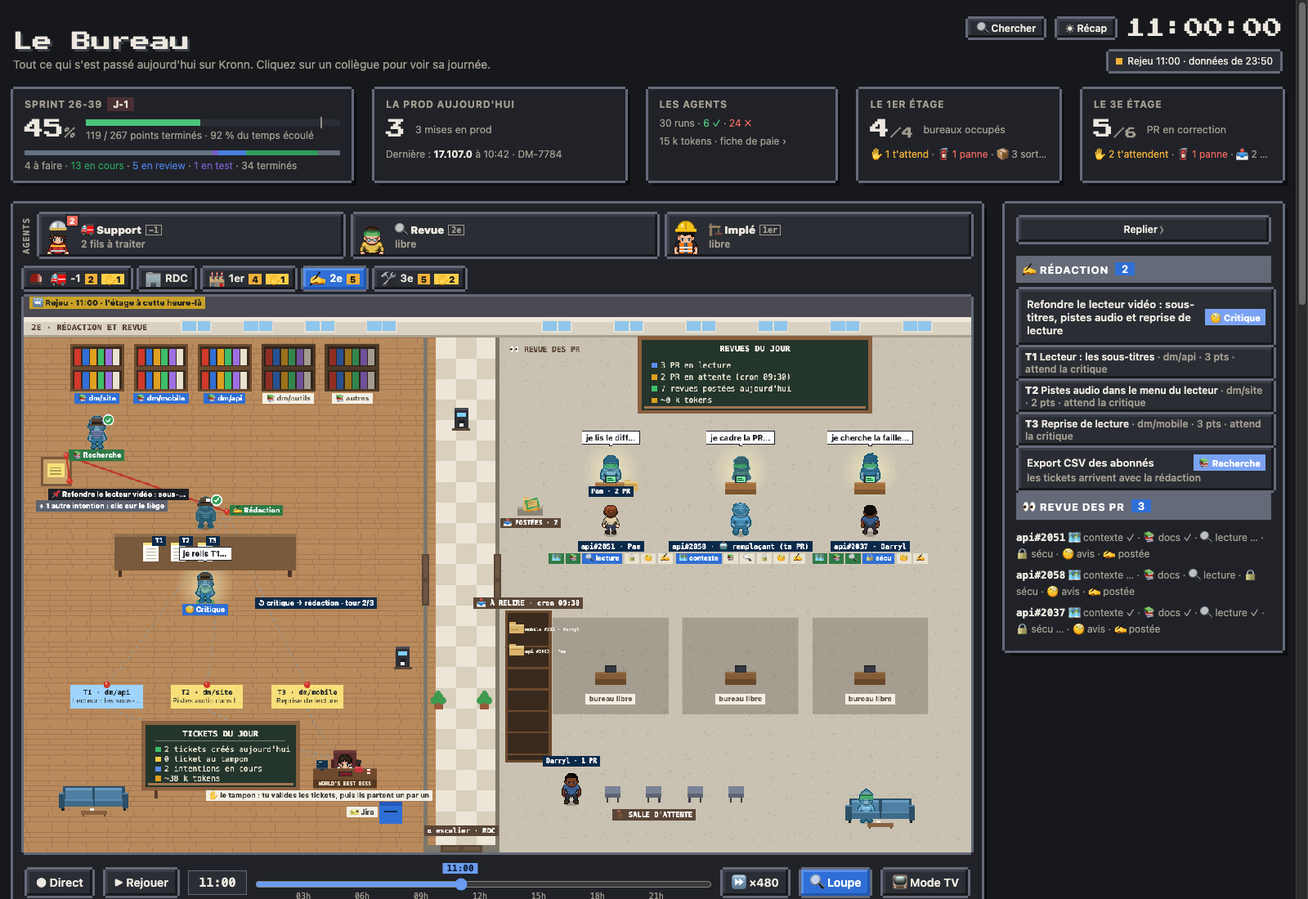
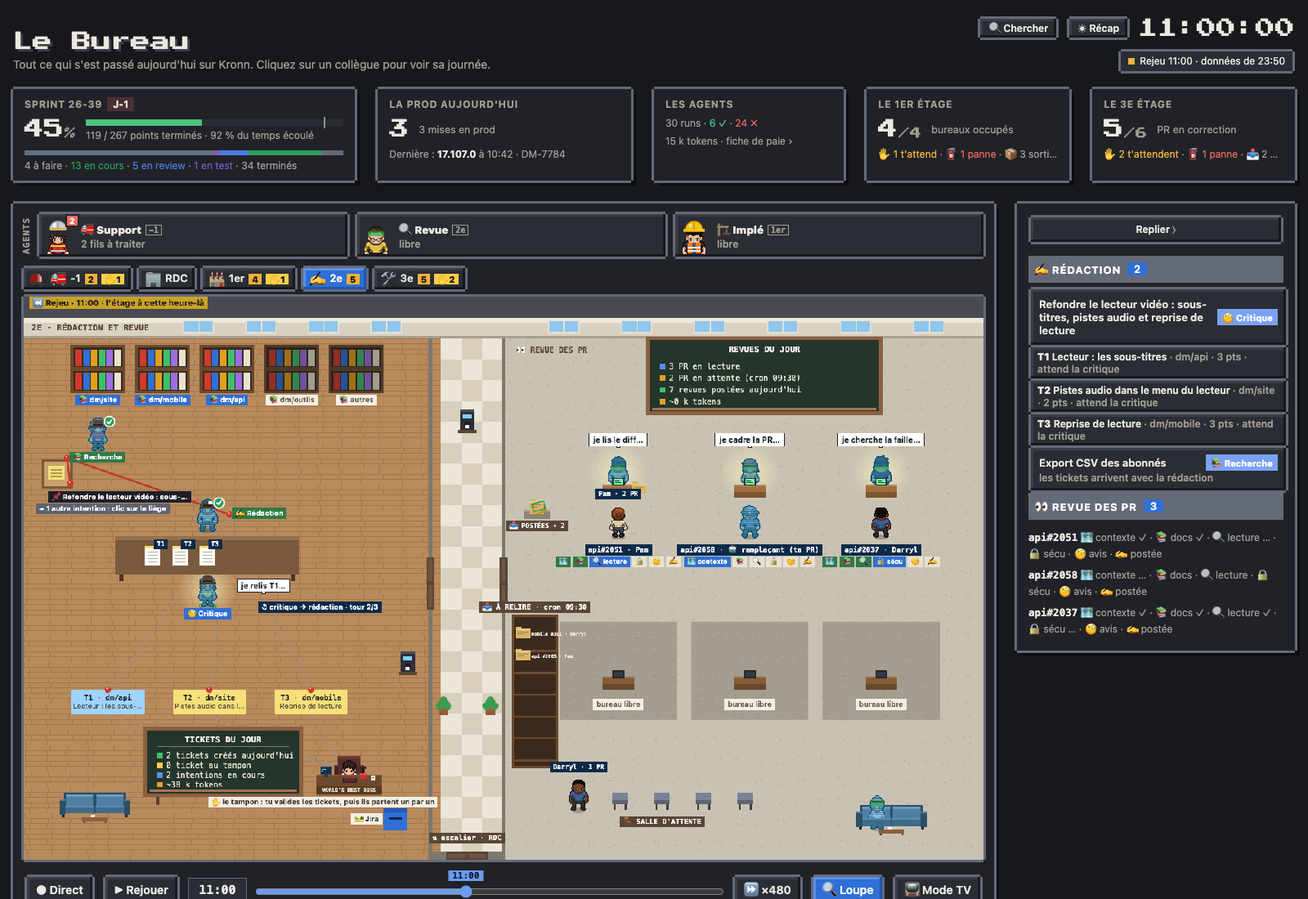
fix(etages): les scènes de la galerie jouent ce qu'elles promettent, avec leur loupe
Rejeu des 31 scènes des étages en Chrome (un clic sur « ▶ voir », état de la
loupe et du boss à chaque instant). Corrigé :

- la loupe s'ouvre aux étages après une pause ou un glissé du curseur :
  loupeNoteSeen() note vu l'étage d'avant la scène (LOUPE.seen était vide,
  l'événement de la scène passait pour déjà vu) ;
- le boss va à la barrière : au 1er et au -1, les autres gates sont levées
  et il part de son fauteuil ; au 3e, rtDemo garde sa mémoire (il
  réapparaissait d'un coup) ; la loupe de l'escalade le montre là où il est ;
- la rédaction du 2e montre le changement : rdDemo dessine l'étage d'avant,
  le découpage part d'une intention sans tickets, le boss porte les tickets
  à la boîte Jira ;
- les scènes du 2e ont leur loupe : découpage, Jira, fournée, dossier pris,
  avis, auteur qui repart, revue à la demande ; la démo de la revue suit
  l'heure du plan (rvDemo filtré par _s <= T) ;
- textes cachés : la bulle du critique ne couvre plus les fiches T2 et T3,
  le banc du 3e ne cache plus le titre du bureau 4, la loupe des contrôles
  rouges n'est plus titrée « Bernard » ;
- le soir au 1er et au 3e, des bureaux libres pour voir ceux qui restent
  éclairés.

Tests : tests/scenes-etages.test.js (échouent sur l'ancien code).

diff --git a/page/src/68-redaction.js b/page/src/68-redaction.js
@@ -62,7 +62,7 @@ const rvPosteWf=w=>!!w&&(CFG.revue_postes_wf||[]).includes(String(w).slice(0,8))
 const rdPosteWf=w=>!!w&&((CFG.ticket&&CFG.ticket.postes_wf)||[]).includes(String(w).slice(0,8));
 function rvRuns(){
   const l=((DATA&&DATA.runs)||[]).filter(r=>rvWf(r.wf)&&r._s<=T);
-  if(!l.length&&DEMO||SCENE_DEMO&&SCENE_DEMO.revue)return rvDemo(); // une scène de la revue (galerie) se joue sur la journée de démo
+  if(!l.length&&DEMO||SCENE_DEMO&&SCENE_DEMO.revue)return rvDemo().filter(r=>r._s<=T); // une scène de la revue (galerie) se joue sur la journée de démo, à son heure
   return l.sort((a,b)=>a._s-b._s);
 }
 const RV_DEMO=['whoami','setup','fetch_files','write_ctx','contexte','docs','lecture','securite','avis','map_event','post'];
@@ -109,7 +109,7 @@ function rdLate(people,f,y){people.push([{pos:{x:0,y:y==null?1e6:y}},null,false,
 // devant lui), o.bubble, o.badge (✓ ou ! à côté de lui, comme au 1er ; o.pop : il apparaît en grossissant)
 function rdAgent(people,k,x,y,s,o,now){
   o=o||{};const a=atWorker(k,x,y,o.dir||'down',false,'',null);if(!a)return;a._st={st:s==='run'?'work':'idle'};a.pose=o.pose||'type';const hy=y+(a.pose==='type'?6:0);
-  const after=()=>{if(o.hat)rdHat(ctx,o.hat,x,hy,o.dir||'down');if(o.desk)atDesk(x,y-6,s==='run');if(o.front)o.front();if(o.badge)atBadge(x+18,y-42,o.badge,o.badgeCol||'#2f9e55',o.pop);if(o.bubble)atBubble(x,y-66,o.bubble);};
+  const after=()=>{if(o.hat)rdHat(ctx,o.hat,x,hy,o.dir||'down');if(o.desk)atDesk(x,y-6,s==='run');if(o.front)o.front();if(o.badge)atBadge(x+18,y-42,o.badge,o.badgeCol||'#2f9e55',o.pop);if(o.bubble)atBubble(x+(o.bx||0),y-66+(o.by||0),o.bubble);};
   if(s==='wait'){people.push([{pos:{x,y}},null,false,()=>{const g=atLayer();atDrawInto(g,a,now);if(o.hat)rdHat(g,o.hat,x,hy,o.dir||'down');ctx.save();ctx.globalAlpha=.38;ctx.filter='grayscale(1)';ctx.drawImage(AT_OFF,0,0);ctx.restore();if(o.desk)atDesk(x,y-6,false);}]);return;}
   if(s==='run'){const gl=ctx.createRadialGradient(x,y-24,4,x,y-24,46);gl.addColorStop(0,'rgba(255,246,190,.6)');gl.addColorStop(1,'rgba(255,246,190,0)');ctx.fillStyle=gl;ctx.fillRect(x-48,y-72,96,96);RD_LIT.push({x,y});}
   people.push([a,null,false,after]);
@@ -207,7 +207,7 @@ function rdRoom(now,people){
   const bub={recherche:p==='recherche'?'je fouille '+(t.composants||[]).length+' dépôt(s)…':null,redaction:p==='redaction'?(tks.length?'version '+(t.tour||1)+', je reprends…':'je rédige…'):null,critique:p==='critique'?'je relis T1…':null};
   const at={recherche:[rech,'up'],redaction:[red,'down'],critique:[cri,'up']};let zk=0;
   for(const k in at){const s=st(k), pop=lvPop(M,k,!!t&&s==='ok',now), [q,d]=at[k];
-    if(lvSeated(M,k)){rdAgent(people,RD_KS[k],q.x,q.y,!t?'idle':s==='wait'?'wait':s==='run'?'run':'idle',{dir:d,hat:'presse',bubble:bub[k],badge:t&&s==='ok'?'✓':null,pop},now);
+    if(lvSeated(M,k)){rdAgent(people,RD_KS[k],q.x,q.y,!t?'idle':s==='wait'?'wait':s==='run'?'run':'idle',{dir:d,hat:'presse',bubble:bub[k],...(k==='critique'?{bx:86,by:44}:{}),badge:t&&s==='ok'?'✓':null,pop},now);
       if(M.sleep){const j=zk++;rdLate(people,()=>lvZz(q.x,q.y,j,now),1e6);}}
     rdLate(people,()=>atPill(RD_LBL[k],plq[k].x,plq[k].y,s==='run'?'#2f6fd6':s==='ok'?'#2f7a45':'#f4efe4',s==='wait'||!t?'#3a3530':'#fff','bold 11px system-ui,sans-serif'),1e6);}
   // le bureau du boss, le tampon posé dessus : il y est, et tamponne les tickets un par un
@@ -368,7 +368,25 @@ function tvRedactionHtml(){
 // ---------- la loupe, le fil du RDC, ⌘K, la galerie ----------
 function rdLoupeEvents(){
   const out=[], t=rdTable(), boss=chars.find(c=>c.boss);
-  if(t&&(t.tickets||[]).some(x=>x.etat==='gate')){const p=atPt(RD_DESK.x,RD_DESK.y,boss?boss.name:'Le boss','','rd_gate');p._st={st:'rd_gate',label:'✋ Un ticket attend ton tampon'};out.push({id:'rd_gate:'+t.run,kind:'rd_gate',cs:[p,atPt(RD_JIRA.x,RD_JIRA.y,'','','rd_gate')]});}
+  const add=(kind,id,name,label,pts)=>{const cs=pts.map(([x,y],k)=>atPt(x,y,k?'':name,'',kind));cs.forEach(c=>{c._st={st:kind,label};});out.push({id:kind+':'+id,kind,cs});};
+  if(t&&(t.tickets||[]).some(x=>x.etat==='gate'))add('rd_gate',t.run,boss?boss.name:'Le boss','✋ Un ticket attend ton tampon',[[RD_DESK.x,RD_DESK.y],[RD_JIRA.x,RD_JIRA.y]]);
+  // la rédaction : l'intention découpée (ses brins et ses fiches apparaissent), le boss qui porte un ticket à la boîte Jira
+  const tks=(t&&t.tickets)||[];
+  if(tks.length){const G=rdGeo(t);add('rd_cut',t.run+':'+(t.tour||1)+':'+tks.length,'La rédaction','✂ L\'intention découpée en '+plural(tks.length,'ticket','tickets'),[[G.red.x,G.red.y],[G.tx,G.ty],[G.tx,19.6*RD_T]]);}
+  const J=RD_LV&&RD_LV.job;
+  if(J&&J.kind==='jira')add('rd_jira',String(J.key).split(':')[0],boss?boss.name:'Le boss','🎫 Tamponné : le ticket part dans Jira',[[RD_DESK.x,RD_DESK.y],[RD_JIRA.x,RD_JIRA.y]]);
+  // la revue (68-revue.js) : la fournée du cron, le dossier pris, l'avis posté, l'auteur qui repart, une revue à la demande
+  const M=typeof RVF_M!=='undefined'&&RVF_M;
+  if(M&&rvfOn()){
+    if(M.bern)add('rv_batch',M.batch,'Bernard','📥 La fournée du cron : '+plural(M.bern.fresh.length,'PR','PR')+' à relire',[[RVF.door.x,RVF.door.y],[RVF.stand.x,RVF.stand.y],[RVF.bk.x,RVF.bk.y]]);
+    if(M.reading&&M.rel&&M.rel.w&&!M.stamp)add('rv_pick',M.reading,'Le relecteur','🗂 Il prend '+M.reading+' en haut du casier',[[RVF.pick.x,RVF.pick.y],[RVF.desk.x,RVF.desk.y]]);
+    if(M.stamp)add('rv_stamp',String(M.stamp.t0),'Le relecteur',(RVF_V[M.stamp.v]||RVF_V.comment)[0]+' L\'avis est posté sur la PR',[[RVF.desk.x,RVF.desk.y],[RVF.bk.x,RVF.bk.y]]);
+    for(const a in M.who){const h=M.who[a];if(!h.leaving)continue;const c=typeof ghChar==='function'?ghChar(a):null;
+      add('rv_leave',a,c?c.name:a,'🚶 Sa dernière PR relue, il redescend',[[h.pos.x,h.pos.y],[RVF.hall.x,RVF.hall.y]]);}
+  }
+  const kids=M&&rvfOn()?rvfKids():new Set(), off=M&&rvfOn()?1:0;
+  rvActive().filter(r=>!kids.has(r.run)).slice(0,6-off).forEach((r,j)=>{const k=j+off, cx=(28.5+(k%3)*6.3)*RD_T, feet=(k<3?9.2:18.4)*RD_T, v=r.vars||{};
+    add('rv_ask',r.run,'Le relecteur','🔍 Une revue à la demande'+(v['current_task.repo']?' : '+v['current_task.repo']+'#'+v['current_task.number']:''),[[cx,feet],[cx,feet+2.3*RD_T]]);});
   return out;
 }
 function rdGoto(run){if(!redactionOn())return;if(FLOOR!==2)setFloor(2);RDSEL=run;SIDE_FOLDED=false;renderSide(true);}
@@ -382,11 +400,13 @@ function rdSearchRows(q){
   if(!redactionOn())return [];
   return rdTables().filter(t=>srHit(q,t.intention+' '+(t.tickets||[]).map(x=>x.summary+' '+x.composant).join(' '))).map(t=>({g:'2e étage',k:'✍',txt:clip(t.intention,80),go:()=>rdGoto(t.run)}));
 }
-function rdDemo(mut){return ()=>{const d=JSON.parse(JSON.stringify((REDACTION&&rdTables().length)?REDACTION:redactionDemo()));mut(d);REDACTION=d;rdReset();};}
+function rdDemo(mut,prep){return ()=>{const d=JSON.parse(JSON.stringify((REDACTION&&rdTables().length)?REDACTION:redactionDemo()));if(prep)prep(d);
+  REDACTION=JSON.parse(JSON.stringify(d));rdReset();if(FLOOR===2)renderRedaction(performance.now());loupeNoteSeen(); // l'étage d'avant, posé : la scène est ce qui change ensuite
+  mut(d);REDACTION=d;};}
 function rdGalleryScenes(){
   const fam='2e étage · rédaction', ok=true;
   return [{fam,ico:'✂',n:'Une intention découpée',d:'La rédaction découpe l\'intention en trois tickets : le fil rouge se divise en trois brins',w:'Une intention qui touche plusieurs projets',ok,
-      play:{len:15e3,speed:1,setup:rdDemo(d=>{const t=d.tables[0];if(t){t.poste='critique';t.tickets.forEach(x=>{x.etat='wait';});}})}},
+      play:{len:15e3,speed:1,setup:rdDemo(d=>{const t=d.tables[0];if(t){t.poste='critique';t.tickets=t._tk||t.tickets;delete t._tk;t.tickets.forEach(x=>{x.etat='wait';});}},d=>{const t=d.tables[0];if(t){t._tk=t.tickets;t.tickets=[];t.poste='redaction';t.tour=1;}})}},
     {fam,ico:'✋',n:'Le tampon',d:'Les tickets sont relus : le boss les tamponne, tes changements renvoient à la rédaction',w:'Avant leur création',ok,
       play:{len:15e3,speed:1,setup:rdDemo(d=>{const t=d.tables[0];if(t){t.poste='valider';t.tickets.forEach(x=>{x.etat='gate';});}})}},
     {fam,ico:'🎫',n:'Les tickets partent dans Jira',d:'Tamponnés, ils sont créés un par un : les brins du fil rouge vont jusqu\'à la boîte Jira',w:'Tu approuves chaque ticket',ok,
@@ -396,7 +416,7 @@ function rdGalleryScenes(){
 }
 // ---------- les scènes de la revue (68-revue.js) : rejouées sur la journée de démo, à l'heure où elle les joue ----------
 // h : l'heure du moment dans redactionDemo / rvDemo ; la scène commence 1,5 s avant, en ×1
-function rvScene(h,len){return {len,speed:1,setup:()=>{REDACTION=redactionDemo();rdReset();SCENE_DEMO.revue=true;T=DAY0+h*36e5-1500;SCENE_DEMO.s=T;SCENE_DEMO.e=T+len;}};}
+function rvScene(h,len){return {len,speed:1,setup:()=>{REDACTION=redactionDemo();rdReset();SCENE_DEMO.revue=true;T=DAY0+h*36e5-1500;SCENE_DEMO.s=T;SCENE_DEMO.e=T+len;loupeNoteSeen();}};}
 function rvGalleryScenes(){
   const fam='2e étage · revue des PR', file=rvfOn(), ask=!!(CFG.revue_wf||[]).length||DEMO, why='La revue des PR n\'est pas installée';
   return [{fam,ico:'📥',n:'La fournée du cron',d:'Bernard monte les PR sur son transpalette, vide la corbeille et range un dossier par PR dans le casier ; les auteurs s\'assoient en salle d\'attente',w:'Chaque passage du cron des revues',ok:file,why,play:rvScene(9.5,45e3)},

diff --git a/tests/scenes-etages.test.js b/tests/scenes-etages.test.js
@@ -1,0 +1,118 @@
+// Les scènes de la galerie aux étages (46-gallery.js et les 68-*.js) : lancées depuis la pause, elles ont leur loupe ; le
+// boss part de son fauteuil pour la barrière ; la rédaction du 2e montre le changement au lieu de poser l'état final ; la
+// revue du 2e a ses loupes ; le soir, des bureaux libres pour voir ceux qui restent éclairés.
+'use strict';
+const test = require('node:test');
+const assert = require('node:assert/strict');
+const {load} = require('./helpers/page.js');
+
+// depuis la pause à 11 h, à l'étage f, comme quand on a fait glisser le curseur ; la loupe n'attend pas la fin du setFloor
+function page(f, prep = '') {
+  const p = load(), J = c => JSON.parse(p.run('JSON.stringify(' + c + ')'));
+  p.run(`GATES = []; CFG.atelier = true; ATELIER = atelierDemo(); SUPPORT = supportDemo(); REDACTION = redactionDemo(); ${prep}
+    T = DAY0 + 11 * 36e5; setFloor(${f}); setMode('pause'); LOUPE.settle = 0; LOUPE.seen = null;`);
+  const render = {1: 'renderAtelier', 2: 'renderRedaction', 3: 'renderRetours', '-1': 'renderCaserne'}[f];
+  return {p, J, draw: n => p.run(`${render}(${n});`), play: n => p.run(`demoStart(galleryScenes().find(x => x.n === ${JSON.stringify(n)}));`),
+    fresh: () => J('loupeScan().map(e => e.kind)')};
+}
+
+test('depuis la pause, la scène de chaque étage a sa loupe (elle ne passe plus pour déjà vue)', () => {
+  for (const [f, n, kind] of [[1, 'Un ticket arrive', 'at_arrive'], [3, 'Une PR monte au 3e', 'rt_arrive'], [-1, 'Intervention en panne', 'cs_err'], [2, 'Le tampon', 'rd_gate']]) {
+    const {draw, play, fresh} = page(f);
+    draw(500); draw(600);
+    play(n); draw(700);
+    assert.ok(fresh().includes(kind), `${f} : ${n}`);
+  }
+});
+
+test('1er, « Le boss va à la porte » : les autres gates levées, il se lève de son fauteuil et marche jusqu\'à la porte', () => {
+  const {p, J, draw, play, fresh} = page(1);
+  draw(500); draw(600);
+  play('Le boss va à la porte'); draw(700);
+  assert.equal(J('atRooms().filter(r => r.gate).length'), 1, 'une seule gate : celle de la scène');
+  assert.equal(J('AT_MEM.boss.target'), J('atSlots().findIndex(r => r && r.gate)'));
+  assert.ok(J('AT_MEM.boss.walk.path.length') > 0, 'il marche');
+  assert.ok(J('Math.hypot(AT_MEM.boss.walk.pos.x - AT_CHAIR.x, AT_MEM.boss.walk.pos.y - AT_CHAIR.y)') < 40, 'depuis son fauteuil');
+  assert.ok(fresh().includes('at_gate'));
+  p.run('demoEnd();');
+});
+
+test('3e, « À toi de valider » : le boss part de son bureau du couloir, il ne saute plus à la barrière', () => {
+  const {J, draw, play} = page(3);
+  draw(500); draw(600);
+  play('À toi de valider'); draw(700);
+  assert.ok(J('RT_MEM.boss.target') != null);
+  assert.ok(J('RT_MEM.boss.walk.path.length') > 0, 'il marche');
+  // la mémoire du boss survit au reset des autres scènes : pas de saut
+  const {J: J2, draw: d2, play: p2, p} = page(3);
+  d2(500); d2(600); p.run('var __b = RT_MEM.boss;');
+  p2('Contrôles rouges'); d2(700);
+  assert.equal(p.run('RT_MEM.boss === __b'), true);
+  assert.equal(J2("rtLoupeEvents().find(e => e.kind === 'rt_err').cs[0].name"), 'Les contrôles');
+});
+
+test('-1, « À toi de valider » : l\'autre vanne refermée, le capitaine quitte son bureau', () => {
+  const {J, draw, play} = page(-1);
+  draw(500); draw(600);
+  play('À toi de valider'); draw(700);
+  assert.equal(J("SUPPORT.threads.filter(t => t.state === 'gate').length"), 1);
+  assert.ok(J('CS_MEM.boss.target') != null);
+  assert.ok(J('CS_MEM.boss.walk.path.length') > 0, 'il marche');
+});
+
+test('2e, la rédaction : l\'étage d\'avant est posé, la scène montre le changement', () => {
+  // le découpage part d'une intention sans tickets : les fiches apparaissent, avec leur loupe
+  let {J, draw, play, fresh} = page(2);
+  draw(500); draw(600);
+  play('Une intention découpée');
+  assert.ok(J('rdTable().tickets.length') >= 2);
+  draw(700);
+  assert.ok(fresh().includes('rd_cut'));
+  // Jira : le boss porte le premier ticket à la boîte, au lieu de tout poser vert d'un coup
+  ({J, draw, play, fresh} = page(2));
+  draw(500); draw(600);
+  play('Les tickets partent dans Jira'); draw(700); draw(800);
+  assert.equal(J('RD_LV.job && RD_LV.job.kind'), 'jira');
+  assert.ok(fresh().includes('rd_jira'));
+});
+
+test('2e, la revue : la fournée, le dossier pris et l\'avis ont leur loupe ; toutes les loupes du 2e ont leur icône', () => {
+  const {p, J, draw, play, fresh} = page(2);
+  draw(500); draw(600);
+  play('La fournée du cron'); draw(1000);
+  p.run('T += 2000;'); draw(1100);
+  assert.ok(fresh().includes('rv_batch'));
+  p.run('demoEnd();');
+  play("L'avis est posté");
+  let seen = [];
+  for (let k = 0; k < 40 && !seen.includes('rv_stamp'); k++) { p.run('T += 500;'); draw(2000 + k * 100); seen = seen.concat(fresh()); }
+  assert.ok(seen.includes('rv_stamp'), 'le tampon du verdict');
+  assert.ok(J('rdLoupeEvents().every(e => LOUPE_KINDS[e.kind] && LOUPE_ORDER.includes(e.kind))'));
+});
+
+test('le soir au 1er et au 3e : des bureaux libres, pour voir ceux qui restent éclairés', () => {
+  let {p, J, play} = page(1);
+  play('Le soir au 1er');
+  assert.equal(J('atRooms().length'), 2);
+  p.run('demoEnd();');
+  assert.equal(J('atRooms().length'), 4, 'la journée revient telle quelle');
+  ({p, J, play} = page(3));
+  play('Le soir au 3e');
+  assert.equal(J('rtRooms().length'), 3);
+  assert.equal(J('officeOpen(T)'), false);
+  p.run('demoEnd();');
+  assert.equal(J('rtRooms().length'), 5);
+});
+
+test("2e, « L'auteur repart » et « Une revue à la demande » : leur loupe ; la démo de la revue suit l'heure du plan", () => {
+  const {p, J, draw, play, fresh} = page(2);
+  assert.equal(J("(() => { T = DAY0 + 10 * 36e5; return rvActive().map(r => r.run); })()").includes('demo-r2'), false, 'pas encore lancée à 10 h');
+  p.run('T = DAY0 + 11 * 36e5;'); draw(500); draw(600);
+  for (const [n, kind] of [["L'auteur repart", 'rv_leave'], ['Une revue à la demande', 'rv_ask']]) {
+    play(n);
+    let seen = [];
+    for (let k = 0; k < 60 && !seen.includes(kind); k++) { p.run('T += 500;'); draw(3000 + k * 100); seen = seen.concat(fresh()); }
+    assert.ok(seen.includes(kind), n);
+    p.run('demoEnd();');
+  }
+});

diff --git a/page/src/68-retours.js b/page/src/68-retours.js
@@ -211,7 +211,7 @@ function rtHall(slots,now,people){
   if(q.length)rtLate(people,()=>atPill('📥 '+plural(q.length,'PR attend','PR attendent')+' un bureau',1.4*T+150,y+8,'#1c2440','#bfe6ff','bold 11px system-ui,sans-serif'),1e6);
   atHitRt('queue',.6*T,y-20,4*T,40,{});
   atCoffee(20*T,y+18);atPlant(17.6*T,y+20);atPlant(26*T,y+20);
-  const bx=9*T, by=RT_HALL[1]*T-6;atSofa(bx,by);rtLate(people,()=>atSofaFront(bx,by),by+10); // le banc
+  const bx=12.2*T, by=RT_HALL[1]*T-6;atSofa(bx,by);rtLate(people,()=>atSofaFront(bx,by),by+10); // le banc
   rtLate(people,()=>atPill('⇅ escalier · RDC',46*T-74,RT_STAIR.y+RT_STAIR.h+22,'#5a4636','#fff','bold 11px ui-monospace,Menlo,monospace'),1e6);
 }
 // ---------- les équipes : dès qu'une PR a un bureau, ses cinq agents montent derrière Bernard, l'un après l'autre, et
@@ -388,7 +388,7 @@ function tvRetoursHtml(){
 function rtLoupeEvents(){
   const out=[], boss=chars.find(c=>c.boss), slots=rtSlots();
   const pt=(x,y)=>atPt(x,y,'','','x');
-  const add=(k,id,label,pts)=>{pts[0].name=k==='rt_gate'?(boss?boss.name:'Le boss'):'Bernard';pts.forEach(p=>{p._st={st:k,label};});out.push({id:k+':'+id,kind:k,cs:pts});};
+  const add=(k,id,label,pts)=>{pts[0].name=k==='rt_gate'?(boss?boss.name:'Le boss'):k==='rt_err'?'Les contrôles':'Bernard';pts.forEach(p=>{p._st={st:k,label};});out.push({id:k+':'+id,kind:k,cs:pts});};
   for(const s of RT_MEM.scenes){const g=RT_G[s.i], r=slots[s.i];add(s.kind==='arrive'?'rt_arrive':'rt_exit',s.i+':'+s.t0,(s.kind==='arrive'?'🛠 Une PR monte au 3e : ':'📤 Poussée : Bernard redescend la PR · ')+(r&&s.kind==='arrive'?rtName(r):'bureau '+(s.i+1)),[pt(g.door.x,RT_LANE),pt(g.pts[0].x,g.ry)]);}
   slots.forEach((r,i)=>{if(!r)return;const g=RT_G[i];
     if(r.gate)add('rt_gate',r.run,'✋ Les corrections de '+rtName(r)+' t\'attendent',[pt(g.gate.x,g.gate.y),pt(g.pts[3].x,g.pts[3].y)]);
@@ -422,7 +422,7 @@ function rtSearchRows(q){
 // ---------- scènes de l'étage pour la galerie (46-gallery.js) ----------
 // Chacune joue sur une copie du relevé (rendue à la fin de la démonstration) ; à toute heure, sans PR en cours : la démo
 function rtDemo(mut){return s=>{const src=(RETOURS&&(RETOURS.rooms||[]).length)?RETOURS:retoursDemo(), d=JSON.parse(JSON.stringify(src));
-  RETOURS=JSON.parse(JSON.stringify(d));rtReset();RT_MEM.sig=rtSig();rtDiff(performance.now()); // l'étage d'avant la scène, posé : la scène est ce qui change ensuite
+  RETOURS=JSON.parse(JSON.stringify(d));const b=RT_MEM.boss;rtReset();RT_MEM.boss=b;RT_MEM.sig=rtSig();rtDiff(performance.now());loupeNoteSeen(); // l'étage d'avant la scène, posé : la scène est ce qui change ensuite
   mut(d,new Date(s).toISOString(),s);RETOURS=d;};}
 function rtGalleryScenes(){
   const fam='3e étage', ok=true, out=[];
@@ -432,12 +432,13 @@ function rtGalleryScenes(){
     play:{len:12e3,speed:1,setup:rtDemo(d=>{const r=d.rooms.find(x=>x.poste==='fix');if(!r)return;const i=r.fils.findIndex(f=>f.cur);if(i<0)return;r.fils[i].cur=false;r.fils[i].col='corrige';const n=r.fils.find(f=>f.col==='a_traiter');if(n)n.cur=true;})}});
   out.push({fam,ico:'✋',n:'À toi de valider',d:'Le boss quitte son bureau du couloir et va à la barrière du bureau qui attend depuis le plus longtemps ; les autres attendent leur tour',w:'Les corrections attendent ta validation',ok,
     play:{len:20e3,speed:1,setup:rtDemo(d=>{for(const r of d.rooms)if(r.gate){r.gate=false;r.poste='diff';r.states={...r.states,gate:undefined,diff:'run'};}
-      const r=d.rooms.find(x=>x.poste==='push')||d.rooms[0];if(r){r.gate=true;r.poste='gate';r.states={prepare:'ok',fix:'ok',check:'ok',diff:'ok',gate:'gate'};}})}});
+      const r=d.rooms.find(x=>x.poste==='push')||d.rooms[0];if(r){r.gate=true;r.poste='gate';r.states={prepare:'ok',fix:'ok',check:'ok',diff:'ok',gate:'gate'};}RT_MEM.boss={target:null,walk:atWalker([rtHome()]),arrived:true};})}});
   out.push({fam,ico:'📤',n:'La PR est poussée',d:'Corrections poussées, réponses postées : Bernard vient chercher la PR et la redescend, le bureau s\'éteint',w:'Tu valides les corrections',ok,
     play:{len:25e3,speed:1,setup:rtDemo(d=>{const k=d.rooms.findIndex(x=>x.poste==='push');if(k>=0)d.rooms.splice(k,1);else d.rooms.shift();})}});
   out.push({fam,ico:'🧯',n:'Contrôles rouges',d:'Les contrôles du dépôt échouent : le correctif est annulé (fumée), la PR attend une relance',w:'La commande de contrôle du dépôt échoue',ok,
     play:{len:12e3,speed:1,setup:rtDemo(d=>{const r=d.rooms.find(x=>x.poste==='fix');if(r){r.poste='check';r.states={prepare:'ok',fix:'ok',check:'err'};r.fils.forEach(f=>{f.cur=false;});}})}});
   out.push({fam,ico:'🌙',n:'Le soir au 3e',d:'Le soir et le week-end, comme au RDC : chaque bureau occupé s\'allume comme une pièce, les bureaux libres restent dans l\'ombre, la lampe du boss reste allumée',w:'Hors des heures de bureau',ok,
-    play:{len:20e3,speed:60,setup:s=>{const n=parisMidnight(s)+22.5*36e5;T=n;SCENE_DEMO.e=n+20e3*60;}}});
+    play:{len:20e3,speed:60,setup:s=>{const d=JSON.parse(JSON.stringify((RETOURS&&(RETOURS.rooms||[]).length)?RETOURS:retoursDemo()));d.rooms=d.rooms.slice(0,3);RETOURS=d;rtReset(); // trois bureaux libres, pour voir ceux qui restent éclairés
+      const n=parisMidnight(s)+22.5*36e5;T=n;SCENE_DEMO.e=n+20e3*60;}}});
   return out;
 }

diff --git a/page/src/68-atelier.js b/page/src/68-atelier.js
@@ -719,9 +719,11 @@ function atLoupeEvents(now){
 // prep : la copie de départ (posée sans scène, comme au chargement), mut : ce que la scène change ensuite
 function atDemo(mut,prep){return ()=>{const src=ATELIER&&(ATELIER.rooms||[]).length?ATELIER:atelierDemo(), cp=x=>JSON.parse(JSON.stringify(x));
   const base=cp(src);base.rooms=base.rooms||[];base.queue=base.queue||[];base.pannes=base.pannes||[];if(prep)prep(base);
-  ATELIER=base;AT_MEM.fresh=true;atDiff(performance.now());
+  ATELIER=base;AT_MEM.fresh=true;atDiff(performance.now());loupeNoteSeen();
   const d=cp(base);mut(d);ATELIER=d;AT_MEM.lastT=null;};} // passer en démonstration (depuis la pause, ou à 11 h le soir) n'est pas un saut du curseur : la scène se joue au premier clic
 const atFirst=d=>d.rooms.find(r=>!r.gate)||d.rooms[0];
+const atNoGate=d=>{for(const r of d.rooms)if(r.gate){r.gate=null;r.note='';if(r.poste==='gate'){r.poste='code';r.states={...(r.states||{}),gate:'ok',code:'run'};}}};
+const atFromChair=f=>s=>{f(s);AT_MEM.boss={target:null,walk:atWalker([AT_CHAIR])};}; // il se lève de son fauteuil, pas de la porte d'à côté
 function atGalleryScenes(){
   const fam='1er étage', ok=true, cl=atCleaner(), out=[];
   out.push({fam,ico:'🎫',n:'Un ticket arrive',d:'Bernard l\'apporte de l\'entrepôt à la trappe d\'entrée, le bureau s\'allume',w:'Un ticket lancé (▶ Implémenter) trouve un bureau libre',ok,
@@ -731,15 +733,15 @@ function atGalleryScenes(){
   out.push({fam,ico:'✓',n:'Un poste rend son verdict',d:'Le ✓ apparaît, l\'agent s\'étire, le carton glisse au poste suivant',w:'Chaque poste qui finit',ok,
     play:{len:12e3,speed:1,setup:atDemo(d=>{const r=atFirst(d), ks=AT_DESKS.filter(p=>!p.gate).map(p=>p.k), j=Math.max(0,ks.indexOf(r.poste));r.states=r.states||{};r.states[ks[j]]='ok';r.poste=ks[Math.min(ks.length-1,j+1)];r.states[r.poste]='run';r.gate=null;r.back=false;})}});
   out.push({fam,ico:'✋',n:'Le boss va à la porte',d:'Une gate t\'attend : il quitte son fauteuil pour la porte du bureau, son bouton clignote',w:'Ton plan (avec ce que j\'ai compris), l\'escalade, la relecture de la PR',ok,
-    play:{len:25e3,speed:1,setup:atDemo(d=>{const r=atFirst(d);r.gate='gate_plan';r.poste='gate';r.states=r.states||{};r.states.gate='wait';r.note='✋ ton plan';})}});
+    play:{len:25e3,speed:1,setup:atFromChair(atDemo(d=>{const r=d.rooms.filter(x=>!x.gate).pop()||d.rooms[0];r.gate='gate_plan';r.poste='gate';r.states=r.states||{};r.states.gate='wait';r.note='✋ ton plan';},atNoGate))}});
   out.push({fam,ico:'🚨',n:'Escalade',d:'Après 3 tours, la chaîne demande un humain : gyrophare au-dessus de la porte',w:'L\'orchestrateur n\'arrive pas à conclure',ok,
-    play:{len:20e3,speed:1,setup:atDemo(d=>{const r=atFirst(d);r.gate='gate_escalade';r.note='🧑⚖ la chaîne demande un humain';})}});
+    play:{len:20e3,speed:1,setup:atFromChair(atDemo(d=>{const r=atFirst(d);r.gate='gate_escalade';r.note='🧑⚖ la chaîne demande un humain';},atNoGate))}});
   out.push({fam,ico:'↩',n:'Retour au code',d:'Un contrôle bloque : le carton recule jusqu\'au Code, « encore ? »',w:'Un poste de contrôle rend un bloquant',ok,
     play:{len:15e3,speed:1,setup:atDemo(d=>{const r=atFirst(d);r.states=r.states||{};for(const k of ['cadrage','gate','code','regles'])r.states[k]='ok';r.states.securite='bloq';r.poste='code';r.back=true;r.gate=null;r.note='🔒 bloquant → retour au code';})}});
   out.push({fam,ico:'🧯',n:'Poste en panne',d:'Son sous-workflow a échoué : fumée sur l\'écran, un pompier arrive avec un extincteur',w:'Un poste plante (API d\'un agent indisponible…)',ok,
     play:{len:20e3,speed:1,setup:atDemo(d=>{const r=atFirst(d);r.states=r.states||{};r.states.tests='err';})}});
   out.push({fam,ico:'🌙',n:'Le soir au 1er',d:'Le soir et le week-end, comme au RDC : les bureaux où un ticket tourne restent éclairés, chaque poste sous sa lampe, le boss sous la sienne ; Bernard est rentré',w:'Hors des heures de bureau',ok,
-    play:{len:20e3,speed:60,setup:s=>{atDemo(()=>{})();T=parisMidnight(s)+22.5*36e5;SCENE_DEMO.e=T+20e3*60;}}});
+    play:{len:20e3,speed:60,setup:s=>{atDemo(()=>{},d=>{d.rooms=d.rooms.slice(0,2);})();T=parisMidnight(s)+22.5*36e5;SCENE_DEMO.e=T+20e3*60;}}}); // deux bureaux libres, pour voir ceux qui restent éclairés
   if(cl)out.push({fam,ico:'🧹',n:cl.name+' · ménage du 1er',d:'Après le RDC, chaque bureau et l\'entrepôt, avec son chariot',w:'Le soir des jours ouvrés, après le RDC',c:cl,ok,
     play:{len:AT_CLEAN_DUR,speed:60,setup:s=>{const u=atCleanVisit(cl,s);
       if(!u){SCENE_DEMO.visit={c:cl,v:{s:s-CLEAN_DUR,e:s,r:rng(keySeed(cl.key)*7919+daySeed(s))}};SCENE_DEMO.e=s+AT_CLEAN_DUR;return;} // pas de ménage ce jour-là : il monte maintenant

diff --git a/page/src/68-caserne.js b/page/src/68-caserne.js
@@ -538,7 +538,7 @@ function tvCaserneHtml(){
 // Comme au 1er, toutes se jouent à toute heure : sans intervention en cours, la copie part des fils de la démo ; trois baies
 // prises, la plus récente se libère d'abord (prep : posée sans scène, comme en arrivant à l'étage)
 function csDemo(mut,prep){return s=>{const src=csActive().length?SUPPORT:supportDemo(), d=JSON.parse(JSON.stringify(src||{threads:[]}));d.threads=d.threads||[];
-  if(prep){prep(d);SUPPORT=JSON.parse(JSON.stringify(d));csReset();csSlots(performance.now());}
+  if(prep){prep(d);SUPPORT=JSON.parse(JSON.stringify(d));csReset();csSlots(performance.now());loupeNoteSeen();}
   mut(d,new Date(s).toISOString(),s);SUPPORT=d;};}
 const csFreeOne=d=>{const l=d.threads.filter(t=>spState(t).k in CS_LIVE);if(l.length>=CS_BAYS){const t=l.sort((a,b)=>ms(b.run&&b.run.at)-ms(a.run&&a.run.at))[0];t.state='skipped';}};
 const csIn=(d,k)=>d.threads.find(t=>spState(t).k===k);
@@ -553,7 +553,8 @@ function csGalleryScenes(){
     play:{len:12e3,speed:1,setup:csDemo(d=>{const t=csIn(d,'run');if(!t)return;const st=csStates(t), ks=CS_POSTES.filter(p=>!p.gate).map(p=>p.k), j=Math.max(0,ks.findIndex(k=>st[k]==='run'));
       const p={};ks.slice(0,j+1).forEach(k=>{p[k]='ok';});p[ks[Math.min(ks.length-2,j+1)]]='run';t.run.postes=p;},()=>{})}});
   out.push({fam,ico:'✋',n:'À toi de valider',d:'La réponse est relue : le capitaine quitte son bureau et va ouvrir la vanne de la baie',w:'La réponse proposée attend ta validation',ok,
-    play:{len:20e3,speed:1,setup:csDemo(d=>{const t=csIn(d,'run');if(!t)return;t.state='gate';t.run.status='WaitingApproval';t.run.postes=null;t.run.draft=t.run.draft||'🔎 Cause : …';},()=>{})}});
+    play:{len:20e3,speed:1,setup:csDemo(d=>{const t=csIn(d,'run');if(!t)return;t.state='gate';t.run.status='WaitingApproval';t.run.postes=null;t.run.draft=t.run.draft||'🔎 Cause : …';CS_MEM.boss={target:null,walk:atWalker([{x:CS_DESK.x,y:CS_DESK.y-CS_BACK}])};},
+      d=>{for(const t of d.threads)if(t.state==='gate'){t.state='run';t.run=Object.assign(t.run||{},{status:'Running',postes:{tri:'ok',logs:'ok',cause:'ok',reponse:'ok',relecture:'run'}});}})}});
   out.push({fam,ico:'📣',n:'Le camion part',d:'Réponse postée dans Teams : le tuyau s\'enroule, le camion rentre et le rideau se ferme sur lui ; l\'équipe prend un café et remonte la barre',w:'Tu valides la réponse',ok,
     play:{len:34e3,speed:1,setup:csDemo((d,at)=>{const t=csIn(d,'gate');if(!t)return;t.state='done';t.mine={at,text:(t.run&&t.run.draft)||'…'};},()=>{})}});
   out.push({fam,ico:'🧯',n:'Intervention en panne',d:'Un poste a planté : fumée, le tuyau s\'arrête là, la baie attend une relance',w:'Un poste échoue (API d\'un agent indisponible…)',ok,

diff --git a/page/src/46-gallery.js b/page/src/46-gallery.js
@@ -81,6 +81,7 @@ function demoStart(x){
   const t0=demoTime(T); if(t0!==T){T=t0;needTeleport=true;}
   const s=T+4e3;
   SCENE_DEMO={n:x.n,s,e:s+x.play.len,hard:performance.now()+Math.max(30e3,x.play.len/x.play.speed+60e3),saved};
+  loupeNoteSeen(); // depuis la pause, la loupe n'a rien noté : la scène passerait pour déjà vue (les étages la reposent aussi)
   x.play.setup(s);
   MOVES_MEMO={team:null,list:[]};UFO_M={};
   setSpeed(x.play.speed);setMode('play');

diff --git a/docs/gotchas/etages-galerie-legende.md b/docs/gotchas/etages-galerie-legende.md
@@ -9,7 +9,12 @@ Lancer une scène (« ▶ voir », `demoStart`) passe en démonstration, souvent
 Règle pour la fonction de démo d'un étage (`atDemo`, `rtDemo`, `csDemo`, `rdDemo`) :
 
 - poser l'état d'avant la scène comme référence (le diff de l'étage, avec `fresh`), **puis** appliquer la mutation ;
-- remettre la mémoire de saut à zéro (`lastT=null`) pour que la première image de la démonstration ne soit pas un saut.
+- remettre la mémoire de saut à zéro (`lastT=null`) pour que la première image de la démonstration ne soit pas un saut ;
+- appeler `loupeNoteSeen()` (44-loupe.js) une fois l'étage d'avant posé : en pause, la loupe n'a rien noté (`LOUPE.seen` vide), et l'événement de la scène, présent dès la première image, passait pour déjà vu ; la loupe ne s'ouvrait jamais après une pause ou un glissé du curseur. L'id d'un événement doit aussi changer avec la scène (le découpage porte le tour et le nombre de tickets), sinon l'état d'avant, qui a le même id, l'avale ;
+- au 2e, dessiner l'étage d'avant (`renderRedaction`) avant la mutation : `rdReset` remet `fresh`, et sans image entre les deux, l'étage pose l'état final sans trajet (tampon, boîte Jira) ;
+- une scène où le boss va à une barrière lève d'abord les autres gates et le pose à son fauteuil (`AT_MEM.boss`, `RT_MEM.boss`, `CS_MEM.boss`) : il va toujours à la plus ancienne, et la démo en a déjà une. `rtReset` efface sa mémoire : `rtDemo` la garde, sinon il réapparaît d'un coup à la barrière.
+
+La démo de la revue (`rvDemo`) suit l'heure du plan comme les vrais runs (`_s <= T`), sinon « Une revue à la demande » ne montre rien de nouveau. Un banc de rejeu en Chrome (clic, captures, état de la loupe et du boss à chaque instant) a trouvé ces défauts ; `tests/scenes-etages.test.js` les garde.
 
 Tester par le vrai chemin de rendu (`renderAtelier(n)` deux fois après `demoStart`, depuis `setMode('pause')` et à 22 h 30), pas en appelant le diff à la main : `tests/atelier.test.js` et `tests/retours.test.js` le font.
 

diff --git a/guide/fonctionnalites/05-rejouer.md b/guide/fonctionnalites/05-rejouer.md
@@ -16,7 +16,7 @@ La barre sous le plan déplace l'heure affichée : tout le bureau (personnages, 
 
 Dans « Comment lire le plan », l'onglet 🎬 Scènes liste ce que ton bureau sait jouer : les scènes de l'équipe et les cérémonies (soucoupe-mère, ticket réouvert, fête de mise en prod, ticket livré au testeur, daily, lancement du sprint, rétrospective, pizzas), tes invités (tournée de café, ménage du soir, facteur, visites), les passions de l'équipe et les petits moments (canard, agent rétabli, « feu éteint » du Support). Elle se tire de ton installation : un invité ajouté au pack ou une passion au roster y apparaît, une console Support ou un courrier non branchés n'y sont pas. Les états qui durent (travailler, l'hologramme du soir) ne sont pas des scènes.
 
-« ▶ voir » joue la scène tout de suite, à l'heure affichée, même si elle n'a pas eu lieu aujourd'hui : un bandeau « 🎬 Démonstration » le rappelle sur le plan, la loupe s'ouvre comme en direct, puis la journée revient telle qu'elle était (ou tout de suite avec « ✕ Revenir »). Le soir, la nuit ou le week-end, la démonstration se joue à 11 h du dernier jour ouvré (tout le monde est rentré à l'heure affichée), puis la page revient à ton heure.
+« ▶ voir » joue la scène tout de suite, à l'heure affichée, même si elle n'a pas eu lieu aujourd'hui : un bandeau « 🎬 Démonstration » le rappelle sur le plan, la loupe s'ouvre comme en direct, même si tu avais mis en pause ou fait glisser le curseur, puis la journée revient telle qu'elle était (ou tout de suite avec « ✕ Revenir »). Le soir, la nuit ou le week-end, la démonstration se joue à 11 h du dernier jour ouvré (tout le monde est rentré à l'heure affichée), puis la page revient à ton heure.
 
 ![La galerie des scènes](../img/galerie.png)
 

diff --git a/guide/fonctionnalites/28-redaction.md b/guide/fonctionnalites/28-redaction.md
@@ -37,7 +37,7 @@ L'étage passe en veilleuse, comme le RDC la nuit : la salle de rédaction s'all
 
 ## Depuis le RDC
 
-Le fil de la journée (une intention qui arrive, un ticket qui attend ton tampon, un ticket créé), ⌘K (les intentions par leur texte, leurs tickets, leurs composants), le mode TV (touche E et `?floor=alt`), et les scènes de l'étage dans la galerie. La rédaction : une intention découpée, le tampon, les tickets qui partent dans Jira, le soir au 2e. La revue des PR : la fournée du cron, le relecteur qui prend un dossier, l'avis posté, l'auteur qui repart, une revue à la demande ; elles se rejouent sur la journée de démo, à l'heure où elle les joue.
+Le fil de la journée (une intention qui arrive, un ticket qui attend ton tampon, un ticket créé), ⌘K (les intentions par leur texte, leurs tickets, leurs composants), le mode TV (touche E et `?floor=alt`), et les scènes de l'étage dans la galerie. La rédaction : une intention découpée, le tampon, les tickets qui partent dans Jira, le soir au 2e. La revue des PR : la fournée du cron, le relecteur qui prend un dossier, l'avis posté, l'auteur qui repart, une revue à la demande ; elles se rejouent sur la journée de démo, à l'heure où elle les joue. Chaque scène a sa loupe, comme aux autres étages : les brins de l'intention découpée, le boss qui porte un ticket à la boîte Jira, Bernard et sa fournée, le dossier pris au casier, le tampon de l'avis, l'auteur qui redescend, le bureau d'une revue à la demande.
 
 ## Données
 
